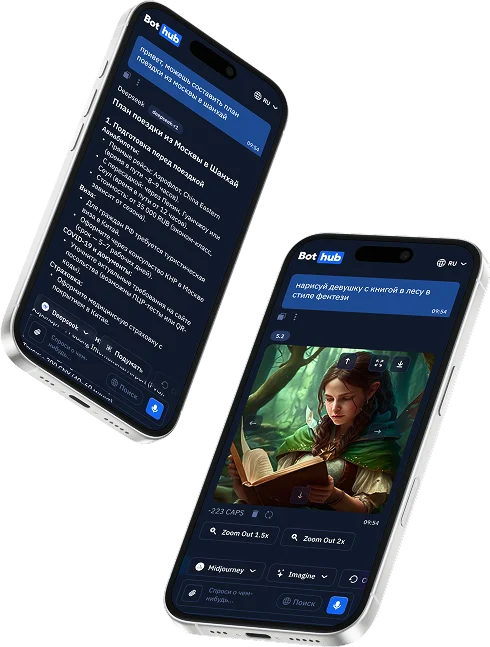
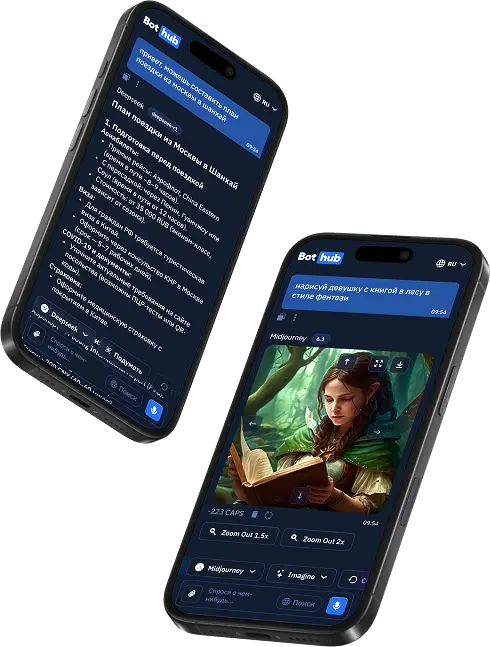
fix: bg shadow, and gradient, replace image white phone to black

diff --git a/packages/ui/src/components/banner/bothub-app/styled.tsx b/packages/ui/src/components/banner/bothub-app/styled.tsx
@@ -17,8 +17,27 @@ export const BothubAppBannerBackgroundGradient = styled.div`
   left: 0;
   width: 100%;
   height: 100%;
-  transition: opacity 0.3s ease-in-out;
-  background: ${({ theme }) => theme.colors.premiumGradient};
+  transition: all 0.3s ease-in-out;
+  background: linear-gradient(
+    90deg,
+    #1c64f2 -0.39%,
+    rgba(212, 28, 242, 0.5) 99.61%
+  );
+  &::after {
+    content: '';
+    position: absolute;
+    top: 0;
+    left: 0;
+    width: 100%;
+    height: 100%;
+    background: linear-gradient(
+      0deg,
+      rgba(0, 0, 0, 0.05) 40%,
+      rgba(0, 0, 0, 0.5) 100%
+    );
+    transition: all 0.3s ease-in-out;
+    opacity: 0;
+  }
   &::before {
     content: '';
     position: absolute;
@@ -68,14 +87,19 @@ export const BothubAppBannerStyled = styled.a`
   border-radius: 24px;
   width: 100%;
   height: 222px;
+
   max-width: 1290px;
   &:hover {
     ${BothubAppBannerImage} {
       transform: scale(1.05);
     }
-    ${BothubAppBannerBackgroundGradient}:before {
-      opacity: 0.2;
-      @media (max-width: ${({ theme }) => theme.mobile.maxWidth}) {
+    ${BothubAppBannerBackgroundGradient} {
+      $:before {
+        @media (max-width: ${({ theme }) => theme.mobile.maxWidth}) {
+          opacity: 1;
+        }
+      }
+      &:after {
         opacity: 1;
       }
     }

diff --git a/packages/ui/src/components/banner/bothub-app/mini/styled.tsx b/packages/ui/src/components/banner/bothub-app/mini/styled.tsx
@@ -4,8 +4,6 @@ import { Typography } from '@/ui/components/typography';
 
 export const BothubAppBannerMiniStyled = styled.a`
   position: relative;
-  ${({ theme }) =>
-    theme.mode === 'dark' && `background: ${theme.colors.premiumGradient};`}
   border-radius: 14px;
   padding: 16px;
   display: flex;
@@ -24,10 +22,7 @@ export const BothubAppBannerMiniStyled = styled.a`
     opacity: 0.2;
     outline: 2px solid rgba(0, 0, 0, 0.3);
     outline-offset: -2px;
-    background: ${({ theme }) =>
-      theme.mode === 'dark'
-        ? theme.colors.base.black
-        : theme.colors.premiumGradient};
+    background: ${({ theme }) => theme.colors.premiumGradient};
   }
   &:hover {
     &:before {
